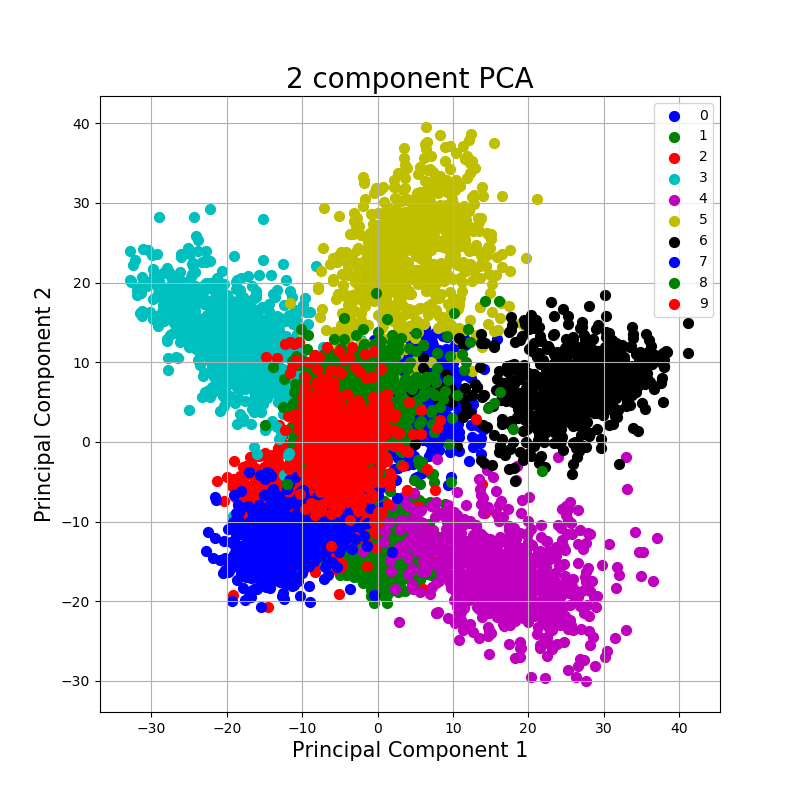
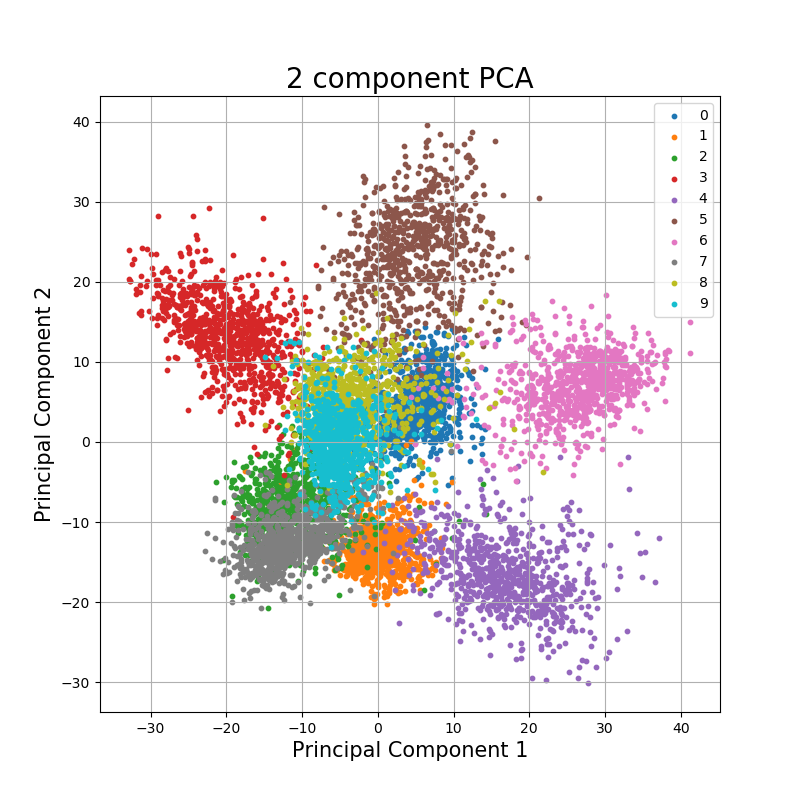
isolation forests, train val split random seed

diff --git a/feature.py b/feature.py
@@ -19,13 +19,17 @@ import torchvision
 from sklearn.utils import shuffle
 from torchvision import datasets, transforms
 from sklearn.decomposition import PCA
+from sklearn.ensemble import IsolationForest
+import matplotlib.pyplot as plt
+from scipy import stats
+from sklearn.preprocessing import MinMaxScaler
 
 from model import LeNet5
 from utils import makedir_exist_ok
 
 
 def extract_feature():
-    with open('./config.json', 'r') as f:
+    with open("./config.json", "r") as f:
         CONFIG = json.load(f)
     DATA_ROOT = CONFIG["DATA_ROOT"]
     MODEL_DIR = CONFIG["MODEL_DIR"]
@@ -66,7 +70,7 @@ def extract_feature():
     print("load train val split...")
     train_val_split = 0.8
     num_train = int(np.ceil(num_all*train_val_split))
-    num_val = int(num_all - num_train)
+    num_val = int(num_all-num_train)
     X_train = X[train_idx]
     y_train = y[train_idx]
     X_val = X[val_idx]
@@ -100,7 +104,7 @@ def extract_feature():
 
 
 def PCA_on_test():
-    with open('./config.json', 'r') as f:
+    with open("./config.json", "r") as f:
         CONFIG = json.load(f)
     DATA_ROOT = CONFIG["DATA_ROOT"]
     MODEL_DIR = CONFIG["MODEL_DIR"]
@@ -156,19 +160,19 @@ def PCA_on_test():
 
     fig = plt.figure(figsize=(8, 8))
     ax = fig.add_subplot(1, 1, 1)
-    ax.set_xlabel('Principal Component 1', fontsize=15)
-    ax.set_ylabel('Principal Component 2', fontsize=15)
-    ax.set_title('2 component PCA', fontsize=20)
+    ax.set_xlabel("Principal Component 1", fontsize=15)
+    ax.set_ylabel("Principal Component 2", fontsize=15)
+    ax.set_title("2 component PCA", fontsize=20)
     targets = range(2)
-    colors = ['r', 'g']
+    colors = ["r", "g"]
     ax.scatter(feature_pca[:, 0], feature_pca[:, 1])
-    ax.legend(('bad', 'good'))
+    ax.legend(("bad", "good"))
     ax.grid()
-    plt.savefig('PCA.png')
+    plt.savefig("PCA.png")
 
 
 def PCA_on_val():
-    with open('./config.json', 'r') as f:
+    with open("./config.json", "r") as f:
         CONFIG = json.load(f)
     DATA_ROOT = CONFIG["DATA_ROOT"]
     MODEL_DIR = CONFIG["MODEL_DIR"]
@@ -178,16 +182,14 @@ def PCA_on_val():
     train_idx = npzfile["train_idx"]
     val_idx = npzfile["val_idx"]
 
-    os.chdir(DATA_ROOT)
-    print(f"Change current work directory to: {DATA_ROOT}")
-
     print("Step 1: Loading data...")
-    data_train = pd.read_csv("data/train.csv").values
+    data_train = pd.read_csv(os.path.join(DATA_ROOT, "data/train.csv")).values
     # 一般不应该对 data 进行 shuffle
     # data_train = shuffle(data_train)  # shuffle after loading train csv
-    data_test = pd.read_csv("data/test.csv").values
+    data_test = pd.read_csv(os.path.join(DATA_ROOT, "data/test.csv")).values
     num_all = len(data_train)  # 42000
     num_test = len(data_test)  # 28000
+    num_classes = 10
 
     use_gpu = torch.cuda.is_available()
 
@@ -224,14 +226,11 @@ def PCA_on_val():
 
     fig = plt.figure(figsize=(8, 8))
     ax = fig.add_subplot(1, 1, 1)
-    ax.set_xlabel('Principal Component 1', fontsize=15)
-    ax.set_ylabel('Principal Component 2', fontsize=15)
-    ax.set_title('2 component PCA', fontsize=20)
+    ax.set_xlabel("Principal Component 1", fontsize=15)
+    ax.set_ylabel("Principal Component 2", fontsize=15)
+    ax.set_title("2 component PCA", fontsize=20)
 
-    num_classes = 10
     targets = np.arange(num_classes)
-    colors = ['b', 'g', 'r', 'c', 'm', 'y', 'k', 'b', 'g', 'r']
-    color_dict = dict(zip(targets, colors))
 
     total_target = 0
     for target in targets:
@@ -240,18 +239,151 @@ def PCA_on_val():
         print(f"target {target} components shape: ",
               feature_pca[target_idx].shape)
         ax.scatter(feature_pca[target_idx, 0],
-                   feature_pca[target_idx, 1], c=color, s=50)
+                   feature_pca[target_idx, 1], cmap="magma", s=10)  # c=color
         total_target += len(target_idx)
     print("total_target: ", total_target)
     ax.legend([str(i) for i in range(num_classes)])
     ax.grid()
-    plt.savefig('PCA_val.png')
+    plt.savefig("PCA_val.png")
+    plt.show()
+
+
+def normalize(X, feature_range=(0, 1)):
+    """MinMaxScaler normalize
+    """
+    scaler = MinMaxScaler(feature_range=feature_range)
+    normalized_data = scaler.fit_transform(X)
+    return normalized_data
+
+
+def isolation_forests():
+    """Isolation_Forests
+    Dataset data should be of dim 2
+    """
+    with open("./config.json", "r") as f:
+        CONFIG = json.load(f)
+    DATA_ROOT = CONFIG["DATA_ROOT"]
+    MODEL_DIR = CONFIG["MODEL_DIR"]
+    FEATURE_DIR = CONFIG["FEATURE_DIR"]
+
+    npzfile = np.load("train_val_idx.npz")
+    train_idx = npzfile["train_idx"]
+    val_idx = npzfile["val_idx"]
+
+    print("Step 1: Loading data...")
+    data_train = pd.read_csv(os.path.join(DATA_ROOT, "data/train.csv")).values
+    # 一般不应该对 data 进行 shuffle
+    # data_train = shuffle(data_train)  # shuffle after loading train csv
+    data_test = pd.read_csv(os.path.join(DATA_ROOT, "data/test.csv")).values
+    num_all = len(data_train)  # 42000
+    num_test = len(data_test)  # 28000
+
+    # print("Step 2: Converting data...")
+    # X = data_train[:, 1:].reshape(data_train.shape[0], 1, 28, 28)
+    # X = X.astype(float)
+    # X /= 255.0
+    # X = torch.from_numpy(X)
+    y = data_train[:, 0]
+    y = y.astype(int)
+    y = torch.from_numpy(y)
+    y = y.view(data_train.shape[0], -1)
+
+    print("load train val split...")
+    train_val_split = 0.8
+    num_train = int(np.ceil(num_all*train_val_split))
+    num_val = int(num_all - num_train)
+    y_val = y[val_idx]
+    num_classes = 10
+
+    feature_path = os.path.join(FEATURE_DIR, "LeNet_epoch20_val.pth")
+    feature = torch.load(feature_path)
+    label = y_val
+
+    pca = PCA(n_components=2)
+    feature_pca = pca.fit_transform(feature)
+    print("pca.explained_variance_ratio_: ", pca.explained_variance_ratio_)
+
+    targets = np.arange(num_classes)
+    target_label = targets[0]
+    target_idx = [i for i, v in enumerate(y_val) if v == target_label]
+
+    feature_range = (-1, 1)  # set normalize limited
+
+    random_state = np.random.RandomState(169)
+    # n_targets = feature_pca.shape[0]
+    n_targets = len(target_idx)
+    print(f"n_targets: {n_targets}")
+
+    feature_pca_norm = normalize(feature_pca, feature_range)
+    x_data = feature_pca_norm[target_idx, 0]
+    y_data = feature_pca_norm[target_idx, 1]
+    ifm = IsolationForest(n_estimators=100, verbose=2, n_jobs=2,
+                          max_samples=n_targets, random_state=random_state, max_features=2)
+
+    Iso_train_dt = np.column_stack((x_data, y_data))
+    ifm.fit(Iso_train_dt)
+    scores_pred = ifm.decision_function(Iso_train_dt)
+
+    outlier_fraction = 0.05  # 使用预测值取5%分位数来定义阈值（基于小概率事件5%）
+    threshold = stats.scoreatpercentile(scores_pred, 100*outlier_fraction)
+
+    # 根据训练样本中异常样本比例，得到阈值，用于绘图
+    # matplotlib
+    # plot the line, the samples, and the nearest vectors to the plane
+    xx, yy = np.meshgrid(np.linspace(feature_range[0], feature_range[1], 50),
+                         np.linspace(feature_range[0], feature_range[1], 50))  # 画格子
+    Z = ifm.decision_function(np.c_[xx.ravel(), yy.ravel()])
+    Z = Z.reshape(xx.shape)
+    # plt.contourf(xx, yy, Z, cmap=plt.cm.Blues_r)
+    plt.title("Isolation Forest")
+    outlier_proportion = int(outlier_fraction*n_targets)
+    # 绘制异常点区域，从阈值附近到最外围
+    plt.contourf(xx, yy, Z, levels=np.linspace(Z.min(), threshold,
+                                               outlier_proportion), cmap=plt.cm.hot)
+    # 绘制异常点区域和正常点区域的边界
+    ax_a = plt.contour(xx, yy, Z, levels=[
+                       threshold], linewidths=2, colors="red")
+    plt.contourf(xx, yy, Z, levels=[threshold,
+                                    Z.max()], colors="palevioletred")
+    # palevioletred 紫罗兰
+    # 绘制正常点区域，值从阈值到最大的那部分
+
+    anomal_idx, is_anomal = [], []
+    for i in scores_pred:
+        if i <= threshold:
+            # print(i)
+            is_anomal.append(1)
+            anomal_idx.append(i)
+        else:
+            is_anomal.append(0)
+
+    # scatter anomalies by class labels
+    anomal_data = np.column_stack([x_data, y_data, scores_pred, is_anomal])
+    anomal_df = pd.DataFrame(data=anomal_data, columns=[
+                             "x_data", "y_data", "isolation_score", "is_anomal"])
+
+    ax_b = plt.scatter(anomal_df["x_data"][anomal_df["is_anomal"] == 0], anomal_df["y_data"]
+                       [anomal_df["is_anomal"] == 0], s=20, edgecolor="k", c="white")
+    ax_c = plt.scatter(anomal_df["x_data"][anomal_df["is_anomal"] == 1], anomal_df["y_data"]
+                       [anomal_df["is_anomal"] == 1], s=20, edgecolor="k", c="black")
+    anomal_df.to_csv("anamal_isolation_forests.csv")
+
+    plt.axis("tight")
+    plt.xlim(feature_range)
+    plt.ylim(feature_range)
+    plt.legend([ax_a.collections[0], ax_b, ax_c],
+               ["learned decision function", "true inliers", "true outliers"],
+               loc="upper left")
+    print(f"Isolation forests threshold: {threshold}")
+    print(f"Total samples: {len(feature_pca)}")
+    print(f"Num of anomal data detected: {len(anomal_idx)}")
     plt.show()
 
 
 def main():
     # extract_feature()
     PCA_on_val()
+    # isolation_forests()
 
 
 if __name__ == "__main__":

diff --git a/data_utils.py b/data_utils.py
@@ -64,34 +64,28 @@ def visualize_data():
         plt.show()
 
 
-def train_val_mask():
-    num_all = 42000
-    train_val_split = 0.8
+def train_val_mask(num_all=42000, train_val_split=0.8, seed=42):
+    """
+    Inputs:
+        seed: default 42: Answer to the Ultimate Question of Life, the Universe, and Everything
+    """
+    np.random.seed(seed)
     num_train = int(np.ceil(num_all*train_val_split))
-    num_val = int(num_all - num_train)
+    num_val = int(num_all-num_train)
     print(
-        f"num_train and num_val: [{num_train}/{num_all}] and [{num_val}/{num_all}]")
-
-    # Answer to the Ultimate Question of Life, the Universe, and Everything
-    np.random.seed(42)
-    # all_idx = [_ for _ in range(num_all)]
-    # all_idx = np.asarray(all_idx)
+        f"split indices to num_train and num_val: [{num_train}/{num_all}] and [{num_val}/{num_all}]")
     all_idx = np.arange(num_all)
-    all_idx = np.random.permutation(all_idx)  # shuffle with permutation
-    # all_idx = np.random.shuffle(all_idx)  # shuffle with shuffle
+    # all_idx = np.random.permutation(all_idx)  # shuffle with permutation
+    all_idx = np.random.shuffle(all_idx)  # shuffle with shuffle
     train_idx = all_idx[0:num_train]
     val_idx = all_idx[num_train:]
-    print(len(train_idx))
-    print(len(val_idx))
-    print(val_idx[0:10])
-
-    np.savez("train_val_idx.npz", train_idx=train_idx, val_idx=val_idx)
 
     return train_idx, val_idx
 
 
 def main():
-    train_val_mask()
+    train_idx, val_idx = train_val_mask()
+    np.savez("train_val_idx.npz", train_idx=train_idx, val_idx=val_idx)
 
 
 if __name__ == "__main__":

diff --git a/main.py b/main.py
@@ -40,7 +40,7 @@ def main():
 
     print("Step 1: Loading data...")
     data_train = pd.read_csv("data/train.csv").values
-    data_train = shuffle(data_train)  # shuffle after loading train csv
+    # data_train = shuffle(data_train)  # already shuffled by split
     data_test = pd.read_csv("data/test.csv").values
     num_all = len(data_train)  # 42000
     num_test = len(data_test)  # 28000
